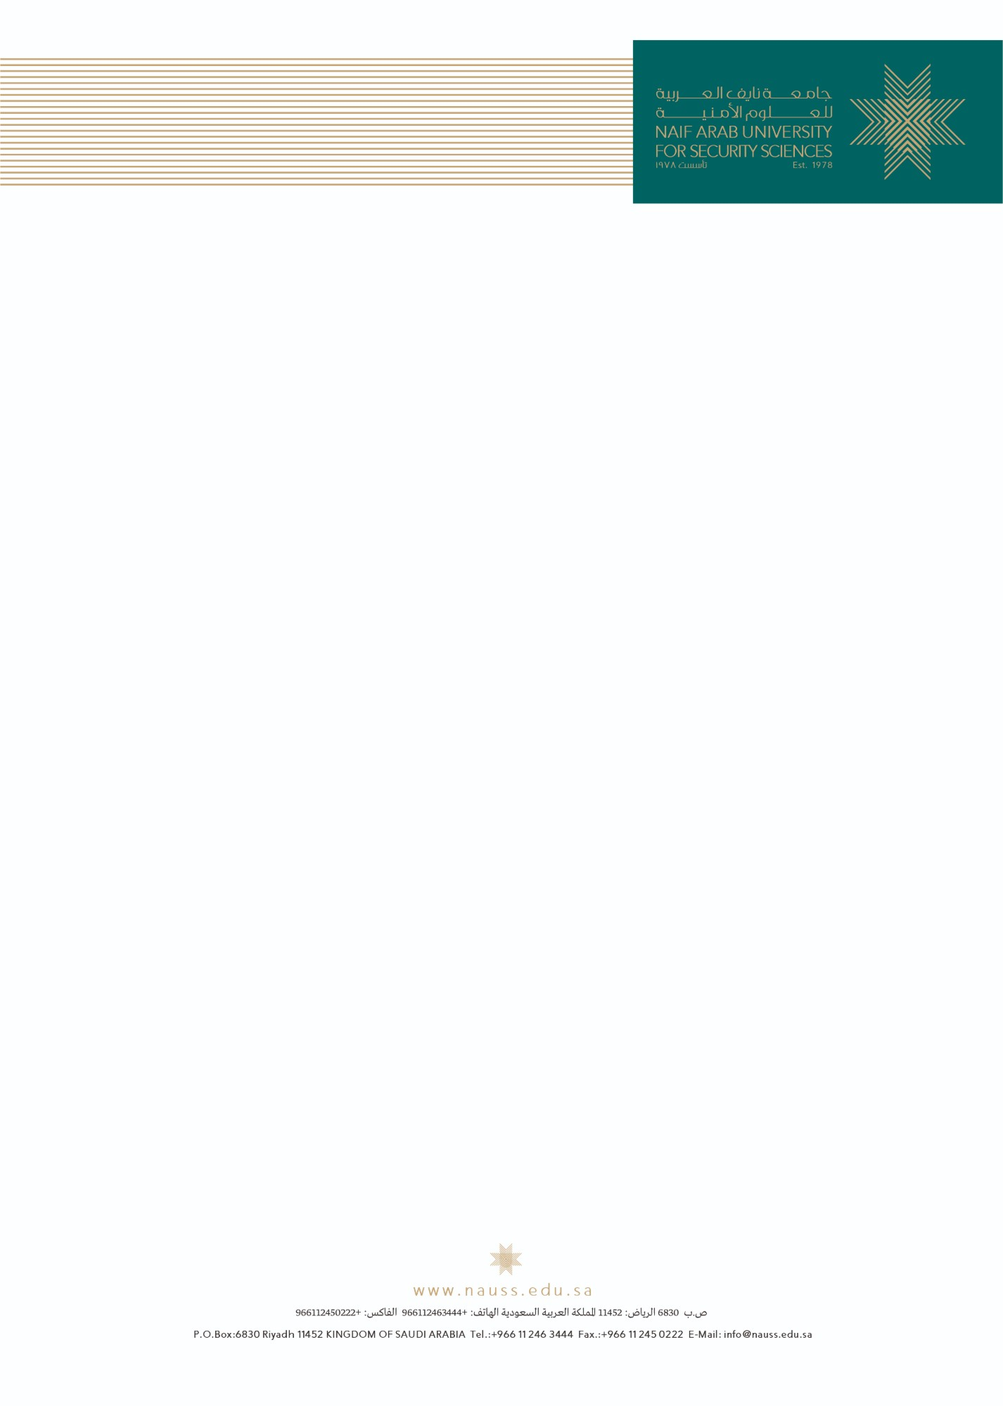
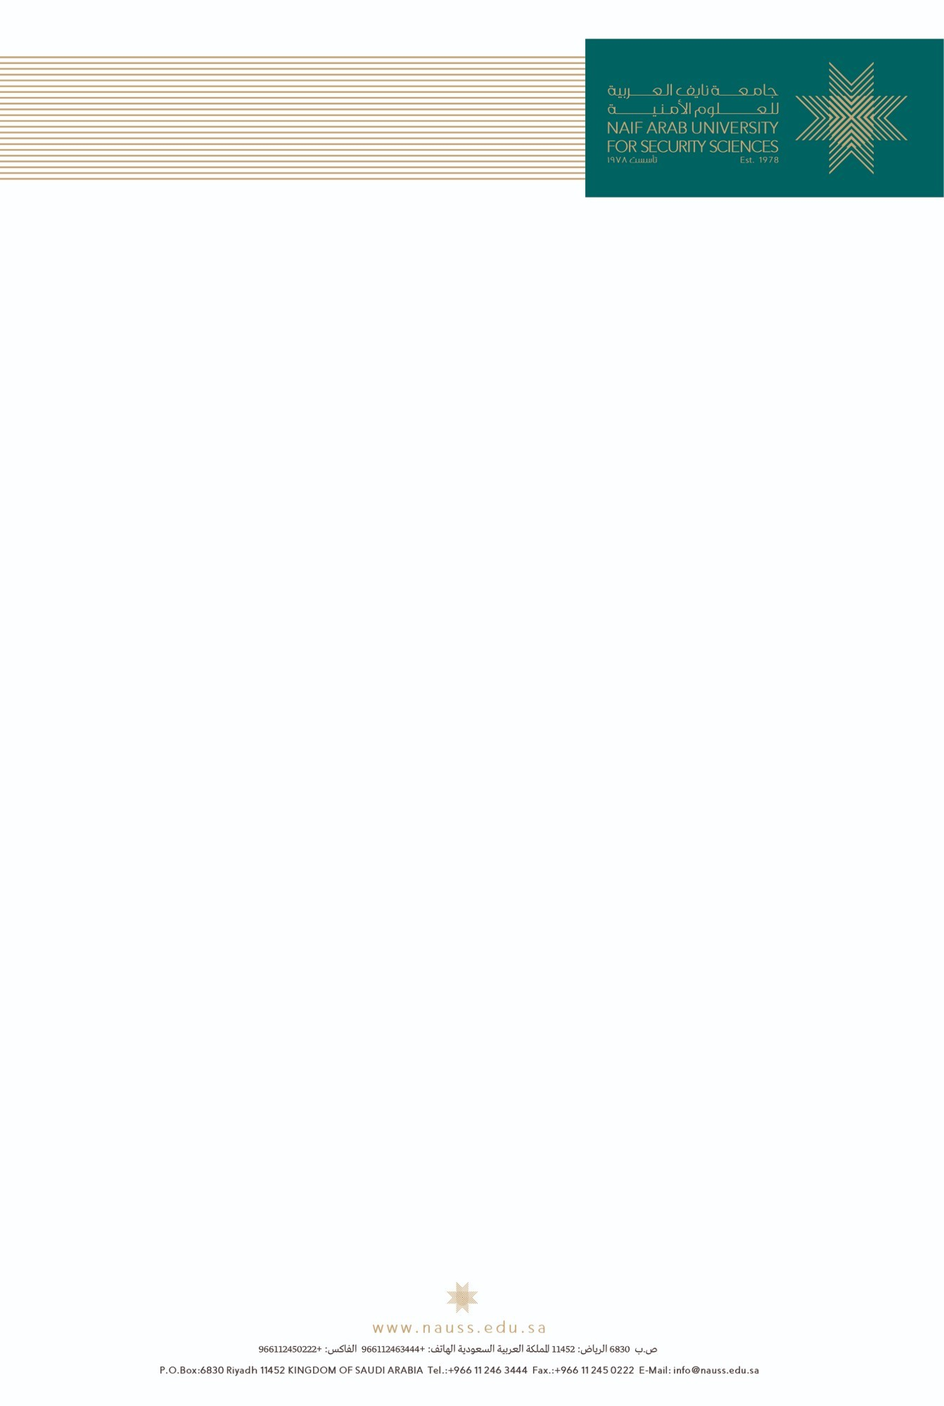
fix(interpreter): مطبوعات الجامعة في موضعها الصحيح، والاطلاع على العقد في كل حالاته
- اعتماد مطبوعات الجامعة الصحيحة، مقصوصةً ترويسةً وتذييلاً بنسبتهما الأصلية
- الورقة بلا هامش طابعة، وإطار صفحة يتكرر رأسه وذيله على كل ورقة،
  فلا ينزل النص تحت الترويسة ولا فوق التذييل في أي صفحة (مُجرَّب: عقد من ٥ صفحات)
- بطاقة المترجم تُفتح للاطلاع بعد التقديم والاعتماد ولمن لا ينفّذ:
  «عرض العقد والرسائل» يعرض البيانات ويفتح العقد ورسالتي القانونية والمالية

diff --git a/components/operational/InterpreterForm.js b/components/operational/InterpreterForm.js
@@ -29,7 +29,7 @@ const DOC_LABEL = {
   interpreter_certificate: 'شهادة إنجاز الترجمة',
 };
 
-function Field({ label, value, onChange, placeholder, hint, required, type = 'text' }) {
+function Field({ label, value, onChange, placeholder, hint, required, type = 'text', disabled = false }) {
   return (
     <label className="block">
       <span className="mb-1 block text-xs font-bold text-text-main">
@@ -39,15 +39,18 @@ function Field({ label, value, onChange, placeholder, hint, required, type = 'te
         type={type}
         value={value}
         onChange={(e) => onChange(e.target.value)}
-        placeholder={placeholder}
-        className="w-full rounded-xl border border-border bg-white px-3 py-2 text-sm outline-none transition focus:border-primary"
+        placeholder={disabled ? '' : placeholder}
+        disabled={disabled}
+        className="w-full rounded-xl border border-border bg-white px-3 py-2 text-sm outline-none transition focus:border-primary disabled:bg-background disabled:text-text-main"
       />
       {hint && <span className="mt-1 block text-[11px] text-text-soft">{hint}</span>}
     </label>
   );
 }
 
-export default function InterpreterForm({ trackingId, courseId, elementKey, initialFormData, onClose, onSuccess }) {
+// readOnly: للاطلاع بعد التقديم أو الاعتماد، ولمن لا يملك التنفيذ — تُعرض
+// البيانات ويُفتح العقد ورسائل القانونية والمالية، ولا يُحفظ ولا يُقدَّم شيء.
+export default function InterpreterForm({ trackingId, courseId, elementKey, initialFormData, onClose, onSuccess, readOnly = false }) {
   const [form, setForm] = useState(EMPTY);
   const [loading, setLoading] = useState(true);
   const [saving, setSaving] = useState(false);
@@ -248,6 +251,12 @@ export default function InterpreterForm({ trackingId, courseId, elementKey, init
       </div>
 
       <div className="flex-1 overflow-y-auto p-5">
+        {readOnly && (
+          <p className="mb-4 rounded-xl border border-primary/20 bg-primary-light/40 px-4 py-3 text-xs font-bold text-primary">
+            وضع الاطلاع: البيانات كما حُفظت، ومنها يُفتح {docLabel} ورسائله.
+          </p>
+        )}
+        {!readOnly && (
         <ol className="mb-5 flex flex-wrap items-center gap-2 text-[11px] font-bold">
           <li className={`rounded-full border px-3 py-1 ${saved ? 'border-accent/30 bg-forest-50 text-accent' : 'border-primary bg-primary text-white'}`}>
             {saved ? <span className="inline-flex items-center gap-1"><Check size={12} aria-hidden="true" /> البيانات</span> : '١ — البيانات'}
@@ -259,13 +268,14 @@ export default function InterpreterForm({ trackingId, courseId, elementKey, init
           <ArrowRight size={14} aria-hidden="true" className="rotate-180 text-text-soft" />
           <li className="rounded-full border border-border bg-background px-3 py-1 text-text-soft">٣ — التقديم</li>
         </ol>
+        )}
 
         <p className="mb-4 text-xs text-text-soft">
           بيانات المترجم تُعبَّأ مرة واحدة للدورة، ويُبنى منها {docLabel} مع بيانات البرنامج تلقائياً.
           {contractType === 'CONTRACT' && ' والعقد قابل للتعديل في صفحته قبل الطباعة.'}
         </p>
 
-        {directory.length > 0 && (
+        {!readOnly && directory.length > 0 && (
           <label className="mb-4 block rounded-xl border border-primary/20 bg-primary-light/40 p-3">
             <span className="mb-1.5 block text-xs font-extrabold text-primary">اختر المترجم من السجل</span>
             <select
@@ -283,12 +293,12 @@ export default function InterpreterForm({ trackingId, courseId, elementKey, init
         )}
 
         <div className="grid grid-cols-1 gap-3 md:grid-cols-2">
-          <Field label="اسم المترجم رباعياً" value={form.fullName} onChange={(v) => set('fullName', v)} placeholder="كما في الهوية" required />
-          <Field label="رقم الهوية الوطنية" value={form.nationalId} onChange={(v) => set('nationalId', v)} placeholder="عشرة أرقام" required />
-          <Field label="البريد الإلكتروني" type="email" value={form.email} onChange={(v) => set('email', v)} placeholder="name@example.com" required />
-          <Field label="رقم الجوال" value={form.mobile} onChange={(v) => set('mobile', v)} placeholder="05xxxxxxxx" required />
-          <Field label="الجنسية" value={form.nationality} onChange={(v) => set('nationality', v)} placeholder="سعودي" hint="تُذكر في صدر العقد" />
-          <Field label="العنوان" value={form.address} onChange={(v) => set('address', v)} placeholder="المدينة — الحي" required />
+          <Field label="اسم المترجم رباعياً" value={form.fullName} onChange={(v) => set('fullName', v)} placeholder="كما في الهوية" required disabled={readOnly} />
+          <Field label="رقم الهوية الوطنية" value={form.nationalId} onChange={(v) => set('nationalId', v)} placeholder="عشرة أرقام" required disabled={readOnly} />
+          <Field label="البريد الإلكتروني" type="email" value={form.email} onChange={(v) => set('email', v)} placeholder="name@example.com" required disabled={readOnly} />
+          <Field label="رقم الجوال" value={form.mobile} onChange={(v) => set('mobile', v)} placeholder="05xxxxxxxx" required disabled={readOnly} />
+          <Field label="الجنسية" value={form.nationality} onChange={(v) => set('nationality', v)} placeholder="سعودي" hint="تُذكر في صدر العقد" disabled={readOnly} />
+          <Field label="العنوان" value={form.address} onChange={(v) => set('address', v)} placeholder="المدينة — الحي" required disabled={readOnly} />
         </div>
 
         {needsPayment && (
@@ -296,19 +306,19 @@ export default function InterpreterForm({ trackingId, courseId, elementKey, init
             <p className="mb-2 mt-5 text-sm font-extrabold text-text-main">المستحق المالي وبيانات الحساب</p>
             <p className="mb-3 text-xs text-text-soft">المبلغ يُكتب كتابةً من الرقم تلقائياً، فلا يختلف الرقم عن الكلمات.</p>
             <div className="grid grid-cols-1 gap-3 md:grid-cols-2">
-              <Field label="قيمة المستحق (ريال)" value={form.amount} onChange={(v) => set('amount', v)} placeholder="12000" required />
-              <Field label="اسم البنك" value={form.bankName} onChange={(v) => set('bankName', v)} placeholder="مصرف الراجحي" required />
-              <Field label="الفرع" value={form.bankBranch} onChange={(v) => set('bankBranch', v)} placeholder="اختياري" />
-              <Field label="الدولة" value={form.bankCountry} onChange={(v) => set('bankCountry', v)} placeholder="إن كان الحساب خارج دولة المقر" />
+              <Field label="قيمة المستحق (ريال)" value={form.amount} onChange={(v) => set('amount', v)} placeholder="12000" required disabled={readOnly} />
+              <Field label="اسم البنك" value={form.bankName} onChange={(v) => set('bankName', v)} placeholder="مصرف الراجحي" required disabled={readOnly} />
+              <Field label="الفرع" value={form.bankBranch} onChange={(v) => set('bankBranch', v)} placeholder="اختياري" disabled={readOnly} />
+              <Field label="الدولة" value={form.bankCountry} onChange={(v) => set('bankCountry', v)} placeholder="إن كان الحساب خارج دولة المقر" disabled={readOnly} />
               <div className="md:col-span-2">
-                <Field label="رقم الحساب الدولي (IBAN)" value={form.iban} onChange={(v) => set('iban', v)} placeholder="SA0000000000000000000000" required />
+                <Field label="رقم الحساب الدولي (IBAN)" value={form.iban} onChange={(v) => set('iban', v)} placeholder="SA0000000000000000000000" required disabled={readOnly} />
               </div>
             </div>
           </>
         )}
 
         <div className="mt-3">
-          <Field label="ملاحظات" value={form.notes} onChange={(v) => set('notes', v)} placeholder="اختياري" />
+          <Field label="ملاحظات" value={form.notes} onChange={(v) => set('notes', v)} placeholder="اختياري" disabled={readOnly} />
         </div>
 
         {/* ── المخرجات: المستند ورسائله ───────────────────────── */}
@@ -375,6 +385,7 @@ export default function InterpreterForm({ trackingId, courseId, elementKey, init
                 type="checkbox"
                 checked={agentSigned}
                 onChange={(e) => { setAgentSigned(e.target.checked); setSignatureSaved(false); }}
+                disabled={readOnly}
                 className="h-4 w-4 accent-[#016564]"
               />
               وقّع وكيل الجامعة للتدريب على العقد
@@ -389,17 +400,18 @@ export default function InterpreterForm({ trackingId, courseId, elementKey, init
                     value={agentSignedAt}
                     max={new Date().toISOString().slice(0, 10)}
                     onChange={(e) => { setAgentSignedAt(e.target.value); setSignatureSaved(false); }}
+                    disabled={readOnly}
                     className="rounded-xl border border-border bg-white px-3 py-2 text-sm outline-none focus:border-primary"
                   />
                 </label>
-                <button
+                {!readOnly && <button
                   type="button"
                   onClick={saveSignature}
                   disabled={savingSignature}
                   className="inline-flex items-center gap-1.5 rounded-xl bg-primary px-4 py-2 text-sm font-bold text-white transition hover:bg-primary-dark disabled:opacity-60"
                 >
                   <Check size={15} aria-hidden="true" /> {savingSignature ? 'جارٍ التسجيل…' : 'تأكيد التوقيع'}
-                </button>
+                </button>}
                 {signatureSaved && (
                   <span className="inline-flex items-center gap-1 text-xs font-bold text-accent">
                     <Check size={13} aria-hidden="true" /> مُسجَّل
@@ -412,6 +424,12 @@ export default function InterpreterForm({ trackingId, courseId, elementKey, init
       </div>
 
       <div className="flex flex-wrap items-center justify-end gap-2 border-t border-border bg-background px-5 py-4">
+        {readOnly ? (
+          <button type="button" onClick={onClose}
+            className="inline-flex items-center gap-1.5 rounded-xl border border-border bg-white px-4 py-2 text-sm font-bold text-text-main transition hover:bg-background">
+            إغلاق
+          </button>
+        ) : (<>
         <button
           type="button"
           onClick={save}
@@ -433,6 +451,7 @@ export default function InterpreterForm({ trackingId, courseId, elementKey, init
         >
           <Send size={15} aria-hidden="true" /> {submitting ? 'جارٍ التقديم…' : 'تقديم للاعتماد'}
         </button>
+        </>)}
       </div>
     </div>
   );

diff --git a/lib/reports/interpreterDocs.js b/lib/reports/interpreterDocs.js
@@ -22,7 +22,12 @@ const { amountInWords, formatAmount, toArabicDigits } = require('./arabicNumbers
 
 // ── الطرف الأول: ثابت، وما قد يتغيّر منه يأتي من الإعدادات ────
 // مطبوعات الجامعة الرسمية — تُرسم خلفيةً للصفحة وتتكرر على كل ورقة
+// مطبوعات الجامعة مقصوصة شريطين من الصفحة المعتمدة (public/letterhead-nauss.jpg):
+// الترويسة أعلى الصفحة، والتذييل أسفلها. يُرسم كلٌّ بعرض الورقة ونسبته
+// الأصلية، فلا يتشوّه الشعار ولا يزيح الشريطان النص.
 const LETTERHEAD = '/letterhead-nauss.jpg';
+const LETTERHEAD_TOP = '/letterhead-header.jpg';    // ١٣٤٢×٣٠٠ ← ٢١٠×٤٦٫٩ ملم
+const LETTERHEAD_BOTTOM = '/letterhead-footer.jpg'; // ١٣٤٢×٢٠٠ ← ٢١٠×٣١٫٣ ملم
 
 const UNIVERSITY = {
   name: 'جامعة نايف العربية للعلوم الأمنية',
@@ -118,9 +123,10 @@ function documentCss() {
   return `
   ${fontFaceCss()}
 
-  /* الهوامش محسوبة على مطبوعات الجامعة: أسفل كتلة الشعار والأشرطة
-     من الأعلى، وفوق شريط الموقع والعنوان من الأسفل. */
-  @page { size: A4; margin: 48mm 22mm 34mm; }
+  /* الورقة بلا هامش من الطابعة: المطبوعة تغطي الورقة كاملة، والمسافات
+     يصنعها إطار الصفحة (.frame) — رأسه وذيله يتكرران على كل ورقة،
+     فلا ينزل النص تحت الترويسة ولا فوق التذييل في أي صفحة. */
+  @page { size: A4; margin: 0; }
 
   * { box-sizing: border-box; }
 
@@ -141,13 +147,22 @@ function documentCss() {
     max-width: 100%;
     min-height: 297mm;
     margin: 0 auto 20px;
-    background: #fff url('${LETTERHEAD}') no-repeat top center;
-    background-size: 210mm 297mm;
-    padding: 48mm 22mm 34mm;
+    background-color: #fff;
+    background-image: url('${LETTERHEAD_TOP}'), url('${LETTERHEAD_BOTTOM}');
+    background-repeat: no-repeat, no-repeat;
+    background-position: top center, bottom center;
+    background-size: 210mm auto, 210mm auto;
+    padding: 0 22mm;
   }
   body.no-letterhead .sheet { background-image: none; }
 
-  /* عند الطباعة: المطبوعة عنصر ثابت، فتتكرر على كل ورقة من المستند */
+  /* إطار الصفحة: خانة الرأس تحجز مكان الترويسة، وخانة الذيل مكان التذييل */
+  table.frame { width: 100%; border-collapse: collapse; }
+  table.frame > thead > tr > td, table.frame > tfoot > tr > td, table.frame > tbody > tr > td { padding: 0; border: 0; }
+  .frame-top { height: 52mm; }
+  .frame-bottom { height: 36mm; }
+
+  /* المطبوعة عند الطباعة: عنصران ثابتا الموضع، فيتكرران على كل ورقة */
   .letterhead { display: none; }
 
   .doc-title {
@@ -289,23 +304,23 @@ function documentCss() {
     body { background: #fff; }
     .toolbar { display: none !important; }
     .sheet {
-      width: auto; min-height: 0; padding: 0; margin: 0;
+      width: auto; min-height: 0; margin: 0;
+      padding: 0 22mm;
       background: none;
     }
-    /* يُرسم خارج هوامش الصفحة ليغطيها كاملة، وثباته يكرّره على كل ورقة */
     .letterhead {
       display: block;
       position: fixed;
-      top: -48mm;
-      left: -22mm;
+      left: 0;
       width: 210mm;
-      height: 297mm;
-      background: url('${LETTERHEAD}') no-repeat center;
-      background-size: 210mm 297mm;
+      background-repeat: no-repeat;
+      background-size: 210mm auto;
       z-index: -1;
       -webkit-print-color-adjust: exact;
       print-color-adjust: exact;
     }
+    .letterhead-top { top: 0; height: 46.95mm; background-image: url('${LETTERHEAD_TOP}'); background-position: top left; }
+    .letterhead-bottom { bottom: 0; height: 31.3mm; background-image: url('${LETTERHEAD_BOTTOM}'); background-position: bottom left; }
     body.no-letterhead .letterhead { display: none; }
     .editable, .inline-edit { border: 0 !important; background: transparent !important; padding: 0 !important; }
   }`;
@@ -409,11 +424,18 @@ function renderPage({ title, refLine, body, trackingId, canEdit, compact, redTit
 </head>
 <body class="${[compact ? 'compact' : '', redTitle ? 'red-title' : ''].filter(Boolean).join(' ')}">
   ${renderToolbar(trackingId, canEdit)}
-  <div class="letterhead"></div>
+  <div class="letterhead letterhead-top"></div>
+  <div class="letterhead letterhead-bottom"></div>
   <div class="sheet">
-    <h2 class="doc-title">${escapeHtml(title)}</h2>
-    ${refLine ? `<p class="doc-ref">${refLine}</p>` : ''}
-    ${body}
+    <table class="frame" role="presentation">
+      <thead><tr><td><div class="frame-top"></div></td></tr></thead>
+      <tfoot><tr><td><div class="frame-bottom"></div></td></tr></tfoot>
+      <tbody><tr><td>
+        <h2 class="doc-title">${escapeHtml(title)}</h2>
+        ${refLine ? `<p class="doc-ref">${refLine}</p>` : ''}
+        ${body}
+      </td></tr></tbody>
+    </table>
   </div>
   ${renderToolbarScript(trackingId, canEdit)}
 </body>

diff --git a/components/operational/ElementRow.js b/components/operational/ElementRow.js
@@ -302,6 +302,12 @@ export default function ElementRow({ element, activeRole, isOverdue = false, onU
     }
   };
 
+  // بطاقة المترجم تُفتح للاطلاع في كل حالاتها: قبل التقديم لمن لا ينفّذ،
+  // وبعد التقديم أو الاعتماد للجميع — فيُرى العقد ورسائل القانونية والمالية.
+  const [interpreterReadOnly, setInterpreterReadOnly] = useState(false);
+  const canFillInterpreter = canExecute && ['NOT_STARTED', 'RETURNED', 'REJECTED'].includes(element.status);
+  const canViewInterpreter = isInterpreterElement && !canFillInterpreter && element.status !== 'NOT_APPLICABLE';
+
   const Spinner = () => <span className="h-3 w-3 animate-spin rounded-full border-2 border-current border-t-transparent" />;
 
   // ======================================================================
@@ -334,7 +340,7 @@ export default function ElementRow({ element, activeRole, isOverdue = false, onU
               </button>
             ) : isInterpreterElement ? (
               <button
-                onClick={() => setShowInterpreterForm(true)}
+                onClick={() => { setInterpreterReadOnly(false); setShowInterpreterForm(true); }}
                 disabled={loading}
                 className={BTN.primary}
               >
@@ -482,6 +488,17 @@ export default function ElementRow({ element, activeRole, isOverdue = false, onU
             </div>
           )}
         </div>
+      )}
+
+      {canViewInterpreter && (
+        <button
+          type="button"
+          onClick={() => { setInterpreterReadOnly(true); setShowInterpreterForm(true); }}
+          className={BTN.primary}
+        >
+          <Languages size={14} aria-hidden="true" />
+          {element.element.key === 'interpreter_contract' ? 'عرض العقد والرسائل' : 'عرض المستند'}
+        </button>
       )}
 
       {canVolunteerReport && (
@@ -687,6 +704,7 @@ export default function ElementRow({ element, activeRole, isOverdue = false, onU
               initialFormData={element.formData || null}
               onClose={() => setShowInterpreterForm(false)}
               onSuccess={onUpdate}
+              readOnly={interpreterReadOnly}
             />
           </div>
         </div>,

diff --git a/lib/modules/courses/interpreter.test.js b/lib/modules/courses/interpreter.test.js
@@ -279,16 +279,22 @@ describe('عقد تقديم خدمات أعمال الترجمة الفورية'
     expect(html()).toContain('.toolbar { display: none !important; }');
   });
 
-  it('يُطبع على مطبوعات الجامعة، وتتكرر على كل ورقة', () => {
+  it('يُطبع على مطبوعات الجامعة: ترويسة أعلى كل ورقة وتذييل أسفلها', () => {
     const out = html();
-    expect(out).toContain('/letterhead-nauss.jpg');
-    expect(out).toContain('<div class="letterhead"></div>');
+    expect(out).toContain('/letterhead-header.jpg');
+    expect(out).toContain('/letterhead-footer.jpg');
+    expect(out).toContain('<div class="letterhead letterhead-top"></div>');
+    expect(out).toContain('<div class="letterhead letterhead-bottom"></div>');
     // ثبات الموضع هو ما يكرّر المطبوعة على كل صفحة عند الطباعة
     expect(out).toContain('position: fixed');
   });
 
-  it('يترك هامشاً للترويسة المطبوعة أعلى الصفحة وأسفلها', () => {
-    expect(html()).toContain('@page { size: A4; margin: 48mm 22mm 34mm; }');
+  it('المطبوعة تغطي الورقة، والنص لا ينزل تحت الترويسة ولا فوق التذييل في أي صفحة', () => {
+    const out = html();
+    expect(out).toContain('@page { size: A4; margin: 0; }');
+    // رأس الإطار وذيله يتكرران مع كل ورقة فيحجزان مكان المطبوعة
+    expect(out).toContain('<thead><tr><td><div class="frame-top"></div></td></tr></thead>');
+    expect(out).toContain('<tfoot><tr><td><div class="frame-bottom"></div></td></tr></tfoot>');
   });
 
   it('خيار «الورق مطبوع مسبقاً» متاح فيُخفي الخلفية', () => {
@@ -427,7 +433,7 @@ describe('شهادة إنجاز الترجمة', () => {
   });
 
   it('تُطبع على مطبوعات الجامعة', () => {
-    expect(html()).toContain('/letterhead-nauss.jpg');
+    expect(html()).toContain('/letterhead-header.jpg');
   });
 });
 
